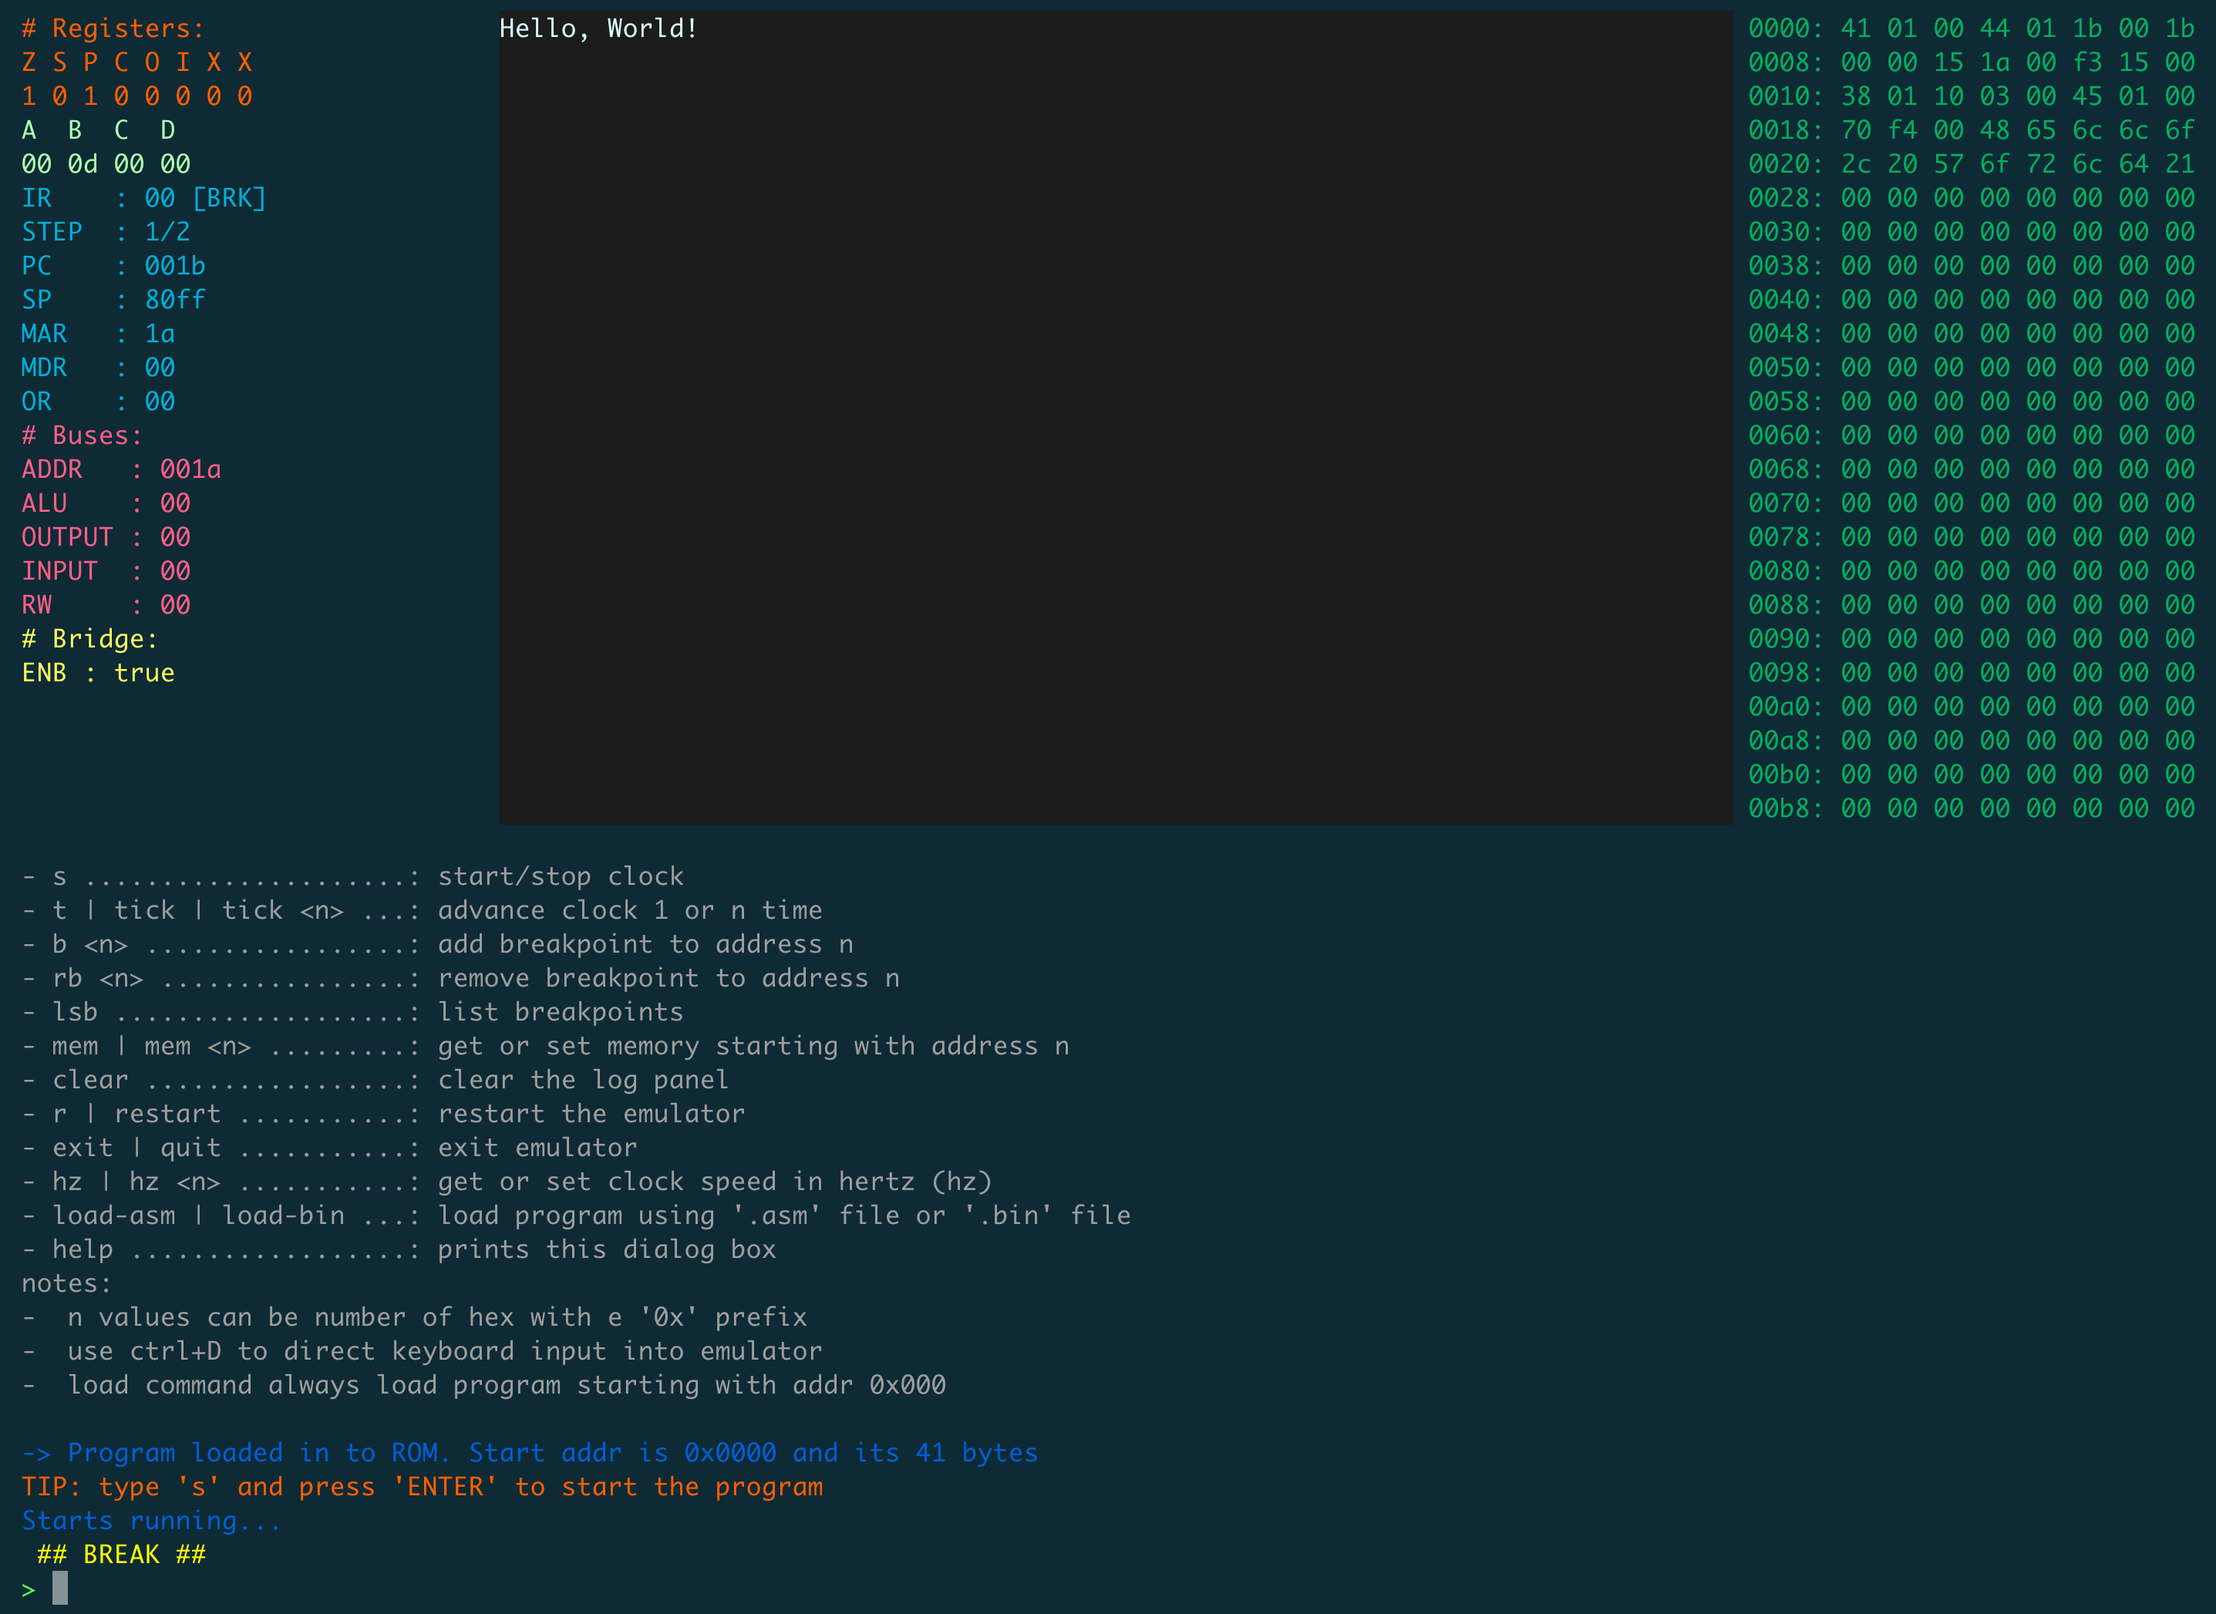
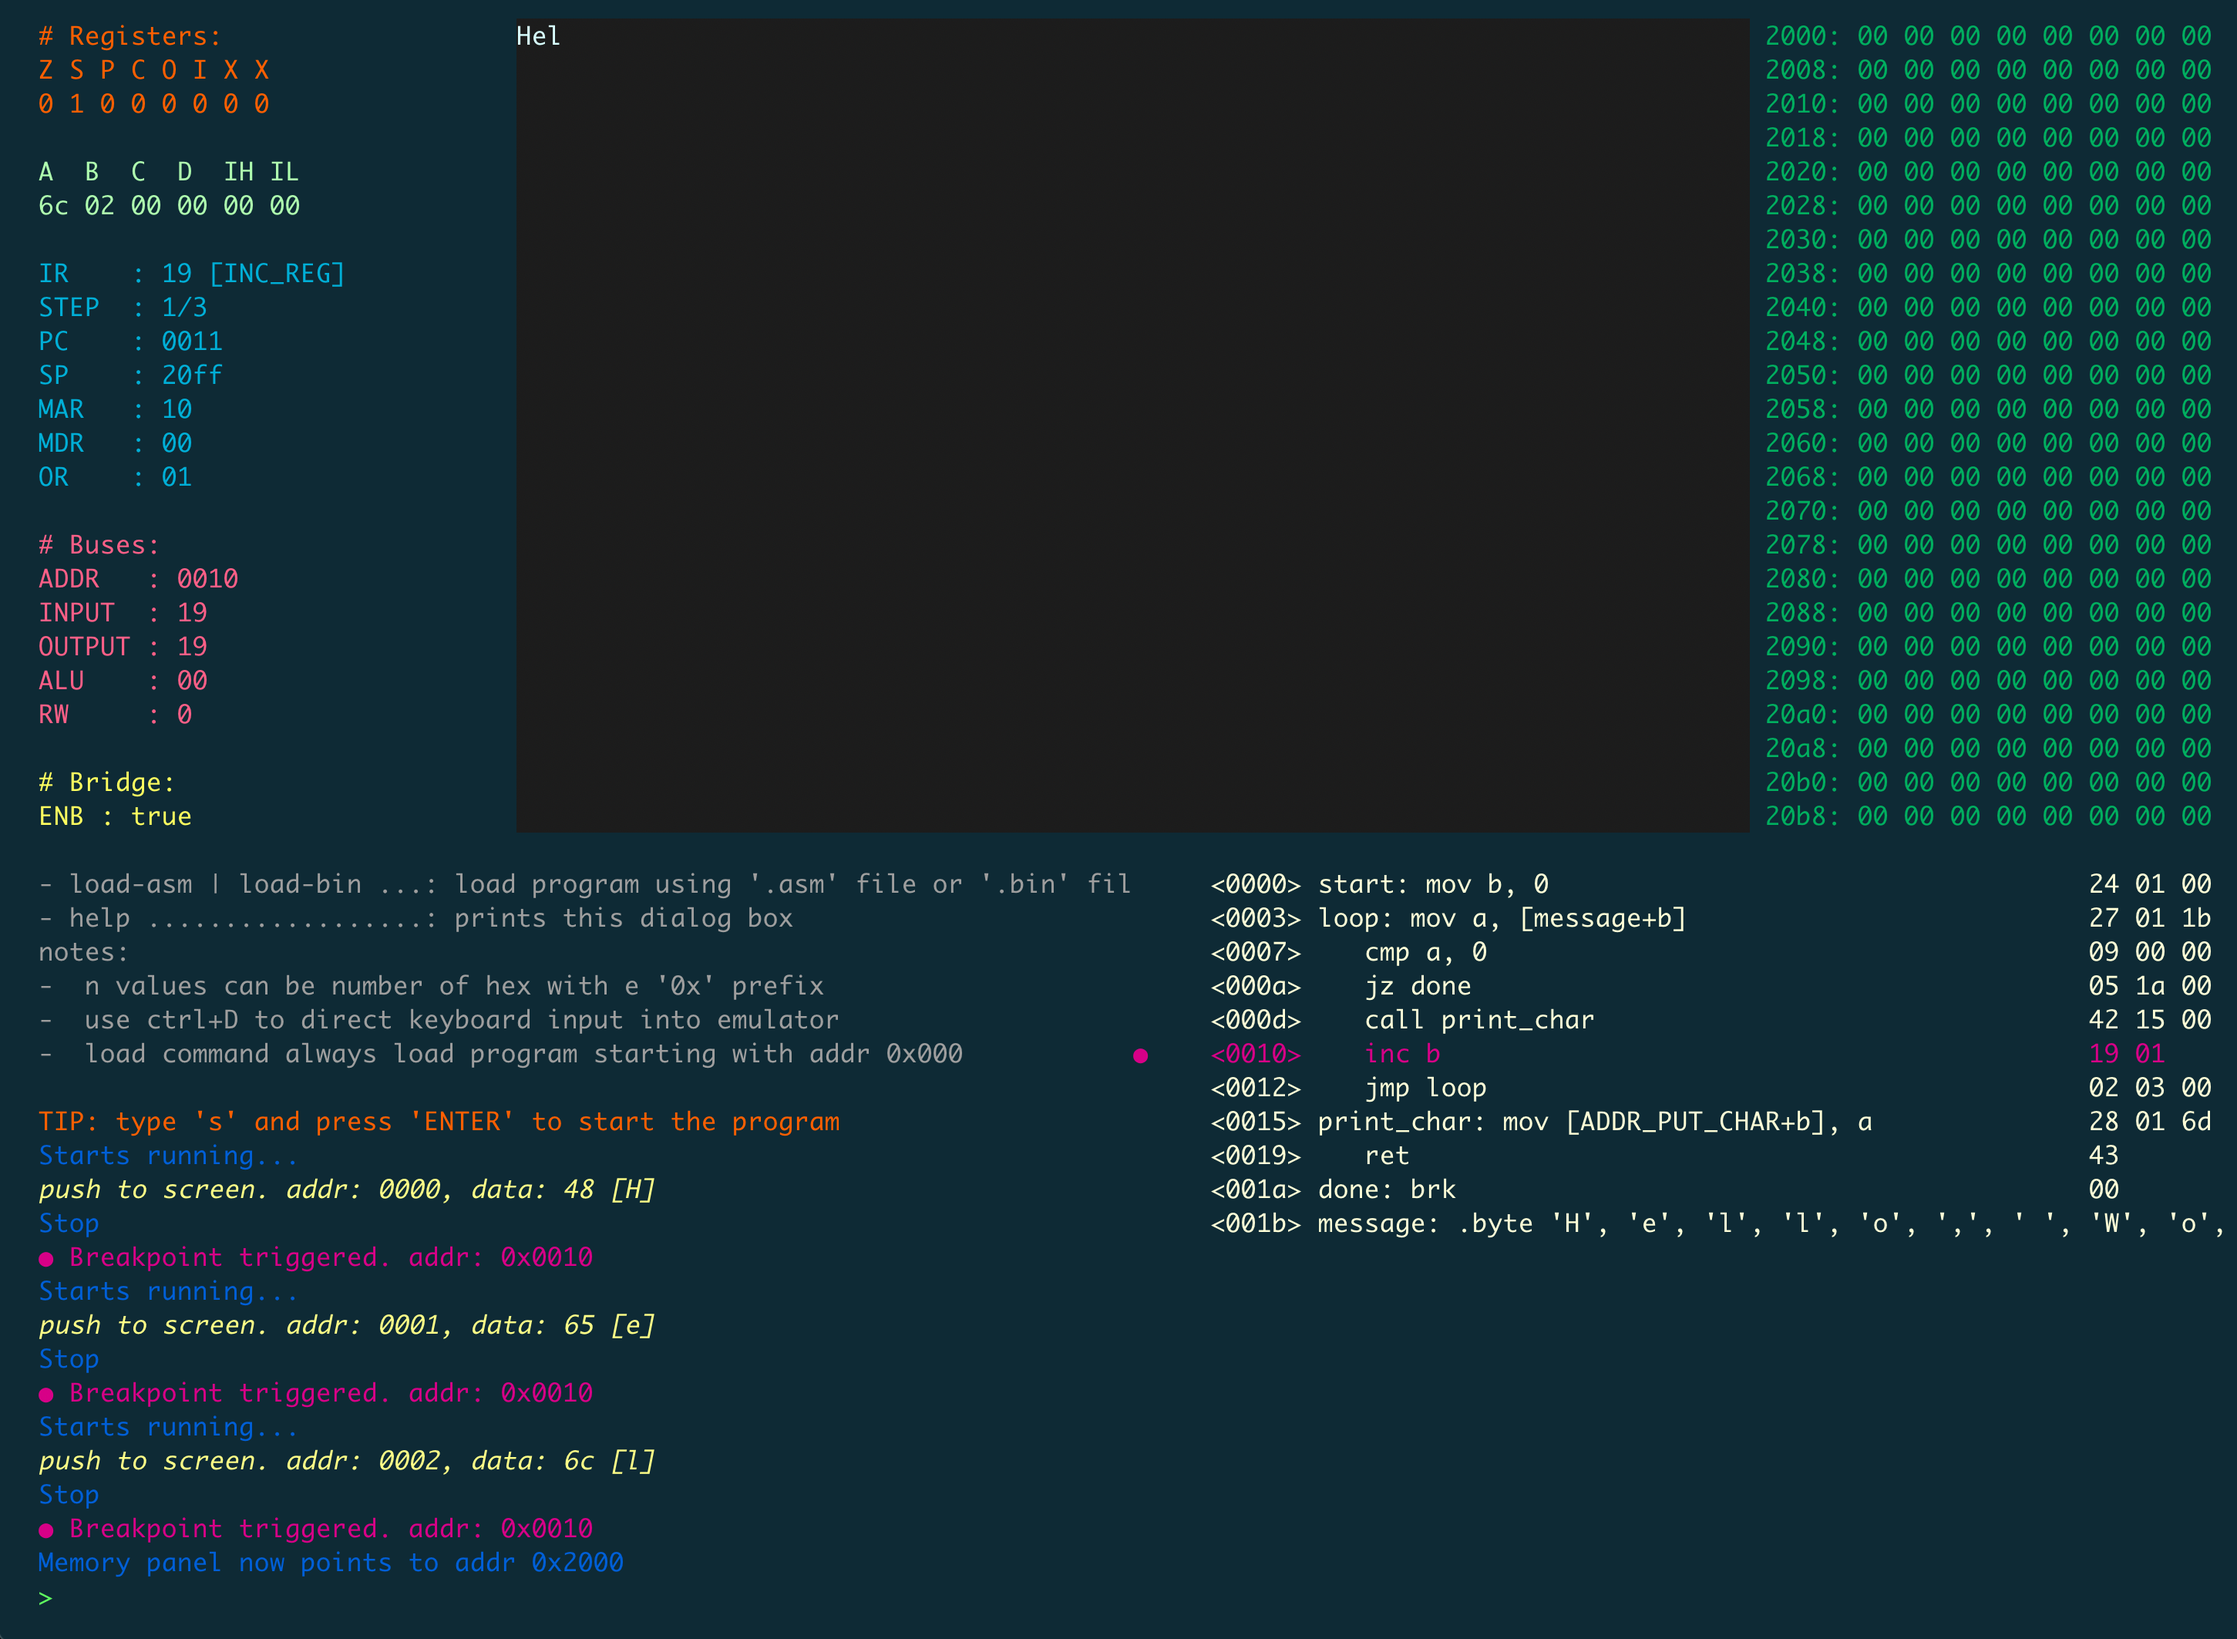
feat: code ruler implemented

diff --git a/emulator/src/comp/log.go b/emulator/src/comp/log.go
@@ -20,8 +20,8 @@ var (
 	HelpStyle            = &style.Style{ForegroundColor: 247}
 	WarningStyle         = &style.Style{ForegroundColor: 226}
 	BreakStyle           = &style.Style{ForegroundColor: 162}
-	CodeStyle            = &style.Style{ForegroundColor: 242}
-	HighlightedCodeStyle = &style.Style{ForegroundColor: 254}
+	CodeStyle            = &style.Style{ForegroundColor: 230}
+	HighlightedCodeStyle = &style.Style{ForegroundColor: 226}
 )
 
 func (c *Comp) Log(str string) {
@@ -96,23 +96,27 @@ func (c *Comp) LogState() {
 	c.LogfFlagIndexWithStyle(0, DefaultStyle6, "# Registers:")
 	c.LogfFlagIndexWithStyle(1, DefaultStyle6, "Z S P C O I X X")
 	c.LogfFlagIndexWithStyle(2, DefaultStyle6, "%s", c.status)
-	c.LogfFlagIndexWithStyle(3, DefaultStyle7, "A  B  C  D  IH IL")
-	c.LogfFlagIndexWithStyle(4, DefaultStyle7, "%s", c.registers)
-	c.LogfFlagIndexWithStyle(5, DefaultStyle1, "IR    : %02x [%s]", c.instructionRegister, instruction.INST_HUMAN_READABLE[c.instructionRegister])
-	c.LogfFlagIndexWithStyle(6, DefaultStyle1, "STEP  : %d/%d", visualStep, stepLen)
-	c.LogfFlagIndexWithStyle(7, DefaultStyle1, "PC    : %04x", c.programCounter)
-	c.LogfFlagIndexWithStyle(8, DefaultStyle1, "SP    : %04x", c.stackPointer)
-	c.LogfFlagIndexWithStyle(9, DefaultStyle1, "MAR   : %02x", c.memoryAddressRegister)
-	c.LogfFlagIndexWithStyle(10, DefaultStyle1, "MDR   : %02x", c.memoryDataRegister)
-	c.LogfFlagIndexWithStyle(11, DefaultStyle1, "OR    : %02x", c.operandRegister)
-	c.LogfFlagIndexWithStyle(12, DefaultStyle2, "# Buses:")
-	c.LogfFlagIndexWithStyle(13, DefaultStyle2, "ADDR   : %04x", c.addrBus.Read_16())
-	c.LogfFlagIndexWithStyle(16, DefaultStyle2, "INPUT  : %02x", c.inputBus.Read_16())
-	c.LogfFlagIndexWithStyle(15, DefaultStyle2, "OUTPUT : %02x", c.outputBus.Read_16())
-	c.LogfFlagIndexWithStyle(14, DefaultStyle2, "ALU    : %02x", c.aluBus.Read_16())
-	c.LogfFlagIndexWithStyle(17, DefaultStyle2, "RW     : %01x", c.rw)
-	c.LogfFlagIndexWithStyle(18, DefaultStyle3, "# Bridge:")
-	c.LogfFlagIndexWithStyle(19, DefaultStyle3, "ENB : %v", c.bridgeEnable)
+	c.LogfFlagIndexWithStyle(3, DefaultStyle6, "")
+	c.LogfFlagIndexWithStyle(4, DefaultStyle7, "A  B  C  D  IH IL")
+	c.LogfFlagIndexWithStyle(5, DefaultStyle7, "%s", c.registers)
+	c.LogfFlagIndexWithStyle(6, DefaultStyle7, "")
+	c.LogfFlagIndexWithStyle(7, DefaultStyle1, "IR    : %02x [%s]", c.instructionRegister, instruction.INST_HUMAN_READABLE[c.instructionRegister])
+	c.LogfFlagIndexWithStyle(8, DefaultStyle1, "STEP  : %d/%d", visualStep, stepLen)
+	c.LogfFlagIndexWithStyle(9, DefaultStyle1, "PC    : %04x", c.programCounter)
+	c.LogfFlagIndexWithStyle(10, DefaultStyle1, "SP    : %04x", c.stackPointer)
+	c.LogfFlagIndexWithStyle(11, DefaultStyle1, "MAR   : %02x", c.memoryAddressRegister)
+	c.LogfFlagIndexWithStyle(12, DefaultStyle1, "MDR   : %02x", c.memoryDataRegister)
+	c.LogfFlagIndexWithStyle(13, DefaultStyle1, "OR    : %02x", c.operandRegister)
+	c.LogfFlagIndexWithStyle(14, DefaultStyle1, "")
+	c.LogfFlagIndexWithStyle(15, DefaultStyle2, "# Buses:")
+	c.LogfFlagIndexWithStyle(16, DefaultStyle2, "ADDR   : %04x", c.addrBus.Read_16())
+	c.LogfFlagIndexWithStyle(17, DefaultStyle2, "INPUT  : %02x", c.inputBus.Read_16())
+	c.LogfFlagIndexWithStyle(18, DefaultStyle2, "OUTPUT : %02x", c.outputBus.Read_16())
+	c.LogfFlagIndexWithStyle(19, DefaultStyle2, "ALU    : %02x", c.aluBus.Read_16())
+	c.LogfFlagIndexWithStyle(20, DefaultStyle2, "RW     : %01x", c.rw)
+	c.LogfFlagIndexWithStyle(21, DefaultStyle3, "")
+	c.LogfFlagIndexWithStyle(22, DefaultStyle3, "# Bridge:")
+	c.LogfFlagIndexWithStyle(23, DefaultStyle3, "ENB : %v", c.bridgeEnable)
 }
 
 func (c *Comp) LogCodePanel(forceRender bool) {
@@ -133,6 +137,11 @@ func (c *Comp) LogCodePanel(forceRender bool) {
 	found := false
 	index := 0
 
+	if page != c.lastPage {
+		c.terminal.Components.CodeRulerPanel.Clear()
+		c.lastPage = page
+	}
+
 	breakPoints := make(map[uint16]int)
 	for i, offset := range c.codeLinesSorted {
 		if i < (page * h) {
@@ -142,7 +151,7 @@ func (c *Comp) LogCodePanel(forceRender bool) {
 		if offset == c.programCounter {
 			index = count
 			found = true
-			lines[count] = ""
+			lines[count] = line
 			count++
 			continue
 		}
@@ -152,7 +161,8 @@ func (c *Comp) LogCodePanel(forceRender bool) {
 		ok := c.IsBreakPoint(offset)
 		if ok {
 			breakPoints[offset] = count
-			lines[count] = ""
+			lines[count] = line
+			c.terminal.Components.CodeRulerPanel.Write(count, '●', BreakStyle)
 			count++
 			continue
 		}
@@ -172,13 +182,13 @@ func (c *Comp) LogCodePanel(forceRender bool) {
 
 	c.terminal.Components.CodePanel.WriteMultiStyle(lines, CodeStyle)
 
-	for offset, count := range breakPoints {
-		line := c.codeLines[offset]
-		c.terminal.Components.CodePanel.Write(count, line, BreakStyle)
-	}
-
 	line := c.codeLines[c.programCounter]
-	c.terminal.Components.CodePanel.Write(index, line, HighlightedCodeStyle)
+	ok := c.IsBreakPoint(c.programCounter)
+	if ok {
+		c.terminal.Components.CodePanel.Write(index, line, BreakStyle)
+	} else {
+		c.terminal.Components.CodePanel.Write(index, line, HighlightedCodeStyle)
+	}
 	c.activeCodeLine = index
 
 }

diff --git a/emulator/src/terminal/setup.go b/emulator/src/terminal/setup.go
@@ -17,16 +17,17 @@ const (
 	FlagPanelWidth   = 31
 	MemoryPanelWidth = 31
 	sysPanelWidth    = 71
-	codePanelWidth   = 70
+	codePanelWidth   = 69
 )
 
 type Components struct {
-	Screen      *screen.Screen
-	MainPanel   *panel.Raw
-	FlagPanel   *panel.Stack
-	MemoryPanel *panel.Stack
-	SysLogPanel *panel.Stack
-	CodePanel   *panel.Base
+	Screen         *screen.Screen
+	MainPanel      *panel.Raw
+	FlagPanel      *panel.Stack
+	MemoryPanel    *panel.Stack
+	SysLogPanel    *panel.Stack
+	CodePanel      *panel.Base
+	CodeRulerPanel *panel.Raw
 }
 
 func NewSetup() (*Components, error) {
@@ -85,18 +86,28 @@ func NewSetup() (*Components, error) {
 		},
 	})
 
+	codeRulerPanel := panel.NewRawPanel(&config.Config{
+		Width:  1,
+		Height: s.TerminalHeight - SCREEN_HEIGHT - 2,
+		ContentStyle: &style.Style{
+			ForegroundColor: 26,
+		},
+	})
+
 	s.Add(mainPanel, FlagPanelWidth+1, 0)
 	s.Add(sysLogPanel, 0, SCREEN_HEIGHT+1)
-	s.Add(codePanel, sysPanelWidth+1, SCREEN_HEIGHT+1)
+	s.Add(codeRulerPanel, sysPanelWidth+1, SCREEN_HEIGHT+1)
+	s.Add(codePanel, sysPanelWidth+3, SCREEN_HEIGHT+1)
 	s.Add(memoryPanel, SCREEN_WIDTH+FlagPanelWidth+1, 0)
 	s.Add(flagPanel, 0, 0)
 
 	return &Components{
-		Screen:      s,
-		MainPanel:   mainPanel,
-		FlagPanel:   flagPanel,
-		MemoryPanel: memoryPanel,
-		SysLogPanel: sysLogPanel,
-		CodePanel:   codePanel,
+		Screen:         s,
+		MainPanel:      mainPanel,
+		FlagPanel:      flagPanel,
+		MemoryPanel:    memoryPanel,
+		SysLogPanel:    sysLogPanel,
+		CodePanel:      codePanel,
+		CodeRulerPanel: codeRulerPanel,
 	}, nil
 }

diff --git a/emulator/src/comp/comp.go b/emulator/src/comp/comp.go
@@ -55,6 +55,7 @@ type Comp struct {
 	inspectionMemoryOffset uint16
 
 	codeLines       map[uint16]string
+	lastPage        int
 	codeLinesSorted []uint16
 	activeCodeLine  int
 	programLoaded   bool
@@ -67,6 +68,9 @@ type Comp struct {
 }
 
 func New(conf *Config) (*Comp, error) {
+	if conf.Delay == 0 {
+		conf.Delay = time.Millisecond * 50
+	}
 	c := &Comp{
 		Config:        conf,
 		registers:     register.NewModule(6),
@@ -248,7 +252,7 @@ func (c *Comp) tick() bool {
 
 	c.LogState()
 	if len(microinstructions) == 0 || c.instructionRegister == instruction.Type(MI_BRK) {
-		c.LogWithStyle(" ## BREAK ## ", WarningStyle)
+		c.LogWithStyle(" ## BREAK ## ", DefaultStyle6)
 		return false
 	}
 	return true

diff --git a/emulator/src/comp/commands.go b/emulator/src/comp/commands.go
@@ -118,6 +118,7 @@ func (c *Comp) HandleCommands(command string) {
 			return
 		}
 		c.Logf("● Breakpoint added 0x%x", n)
+		c.terminal.Components.CodeRulerPanel.Clear()
 		c.LogCodePanel(true)
 		c.pushToCommandPalletHistory(command)
 		return
@@ -134,6 +135,7 @@ func (c *Comp) HandleCommands(command string) {
 			return
 		}
 		c.Logf("○ Breakpoint removed 0x%x", n)
+		c.terminal.Components.CodeRulerPanel.Clear()
 		c.LogCodePanel(true)
 		c.pushToCommandPalletHistory(command)
 		return

diff --git a/emulator/src/terminal/screen.go b/emulator/src/terminal/screen.go
@@ -62,7 +62,7 @@ func (s *Screen) WriteRequest() {
 	addr = addr - s.addrStart
 	data := s.dataBus.Read_16()
 	s.buffer.write(addr, rune(data))
-	s.components.SysLogPanel.Push(fmt.Sprintf("push to screen. addr: %04x, data: %02x", addr, data), style.DefaultStyleInfo)
+	s.components.SysLogPanel.Push(fmt.Sprintf("push to screen. addr: %04x, data: %02x [%s]", addr, data, string(data)), style.DefaultStyleInfo)
 	s.components.MainPanel.Write(int(addr), rune(data))
 }
 
